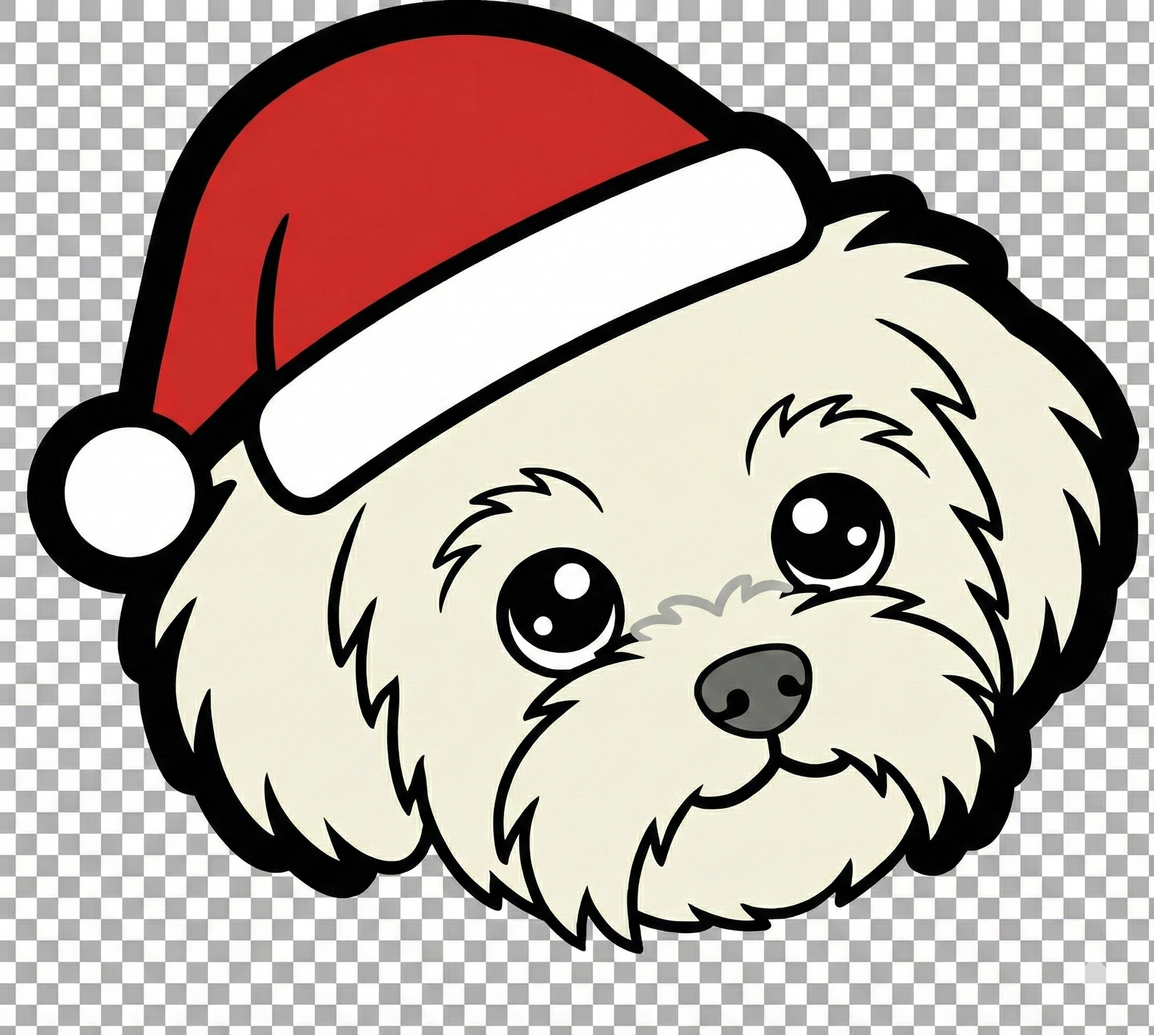
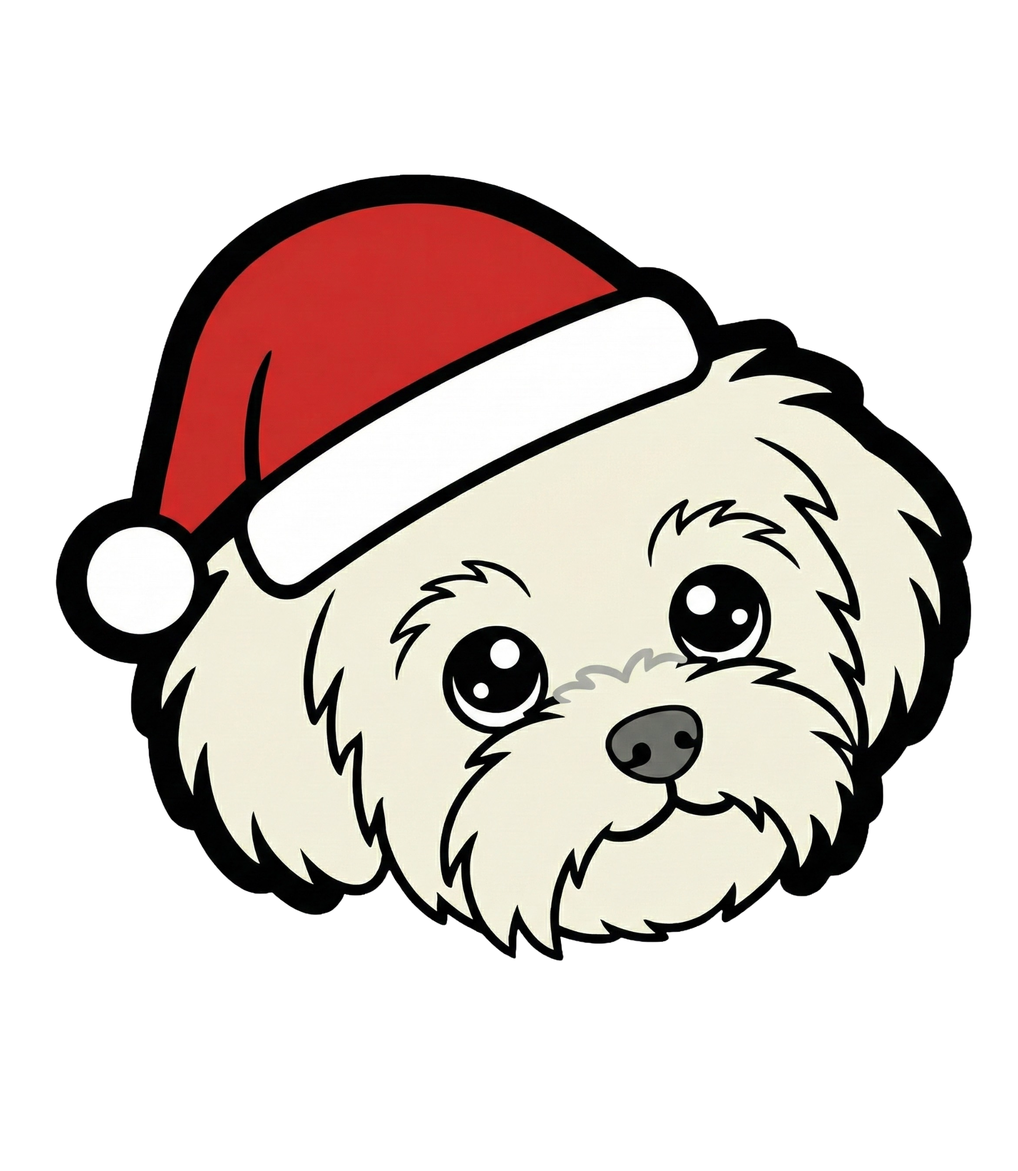
fixed au christmas bingo

diff --git a/generate_json.py b/generate_json.py
@@ -31,11 +31,11 @@ def create_manifest():
             print(f"  Skipping {filename} (could not parse number)")
 
     # Write to JSON file
-    with open(OUTPUT_FILE, 'w') as f:
+    with open(ICON_FOLDER + "/" + OUTPUT_FILE, 'w') as f:
         json.dump(data_map, f, indent=2)
 
     print(f"\n✅ Success! Created '{OUTPUT_FILE}' with {len(data_map)} entries.")
     print("👉 ACTION: Upload this JSON file to your GitHub folder.")
 
 if __name__ == "__main__":
-    create_manifest();
+    create_manifest()
